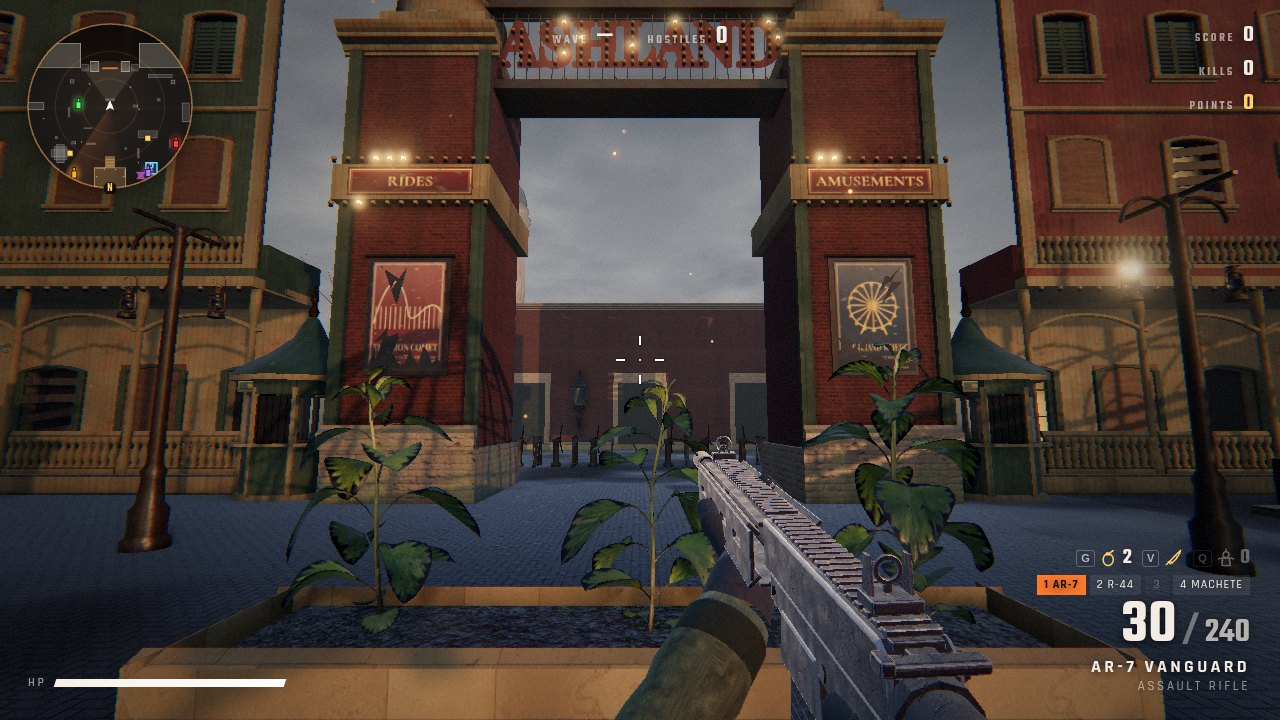
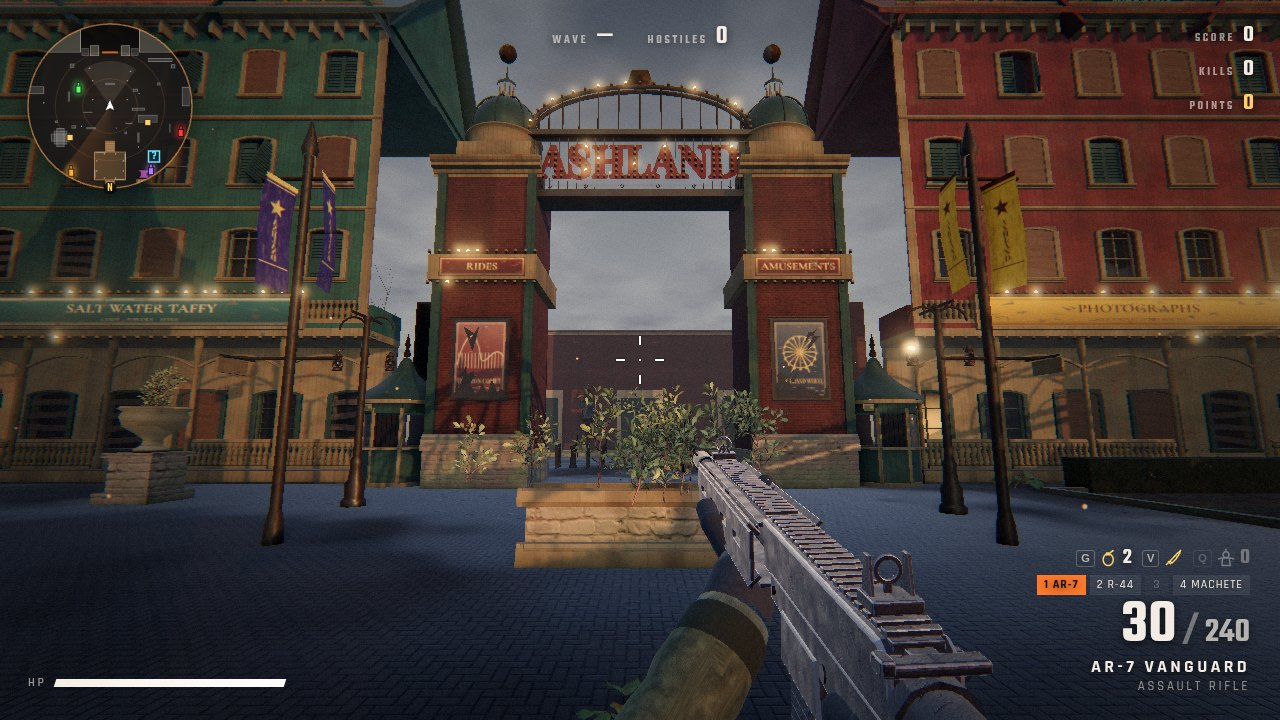
Pass 3: taller sky swings; README and preview show the theme-park restyle

diff --git a/src/world/skyline.js b/src/world/skyline.js
@@ -132,7 +132,7 @@ export function buildSkyline(scene, M) {
     const cr = lathe([[2.6, 0], [2.8, 0.4], [2.2, 1.6], [2.4, 2.0], [0.4, 3.6], [0.1, 6], [0, 6]], 16); cr.translate(cx, H, cz); crown.push(cr);
     tris += add(legs, coasterRed); tris += add(brace, bentMat); tris += add(ring, M.steel); tris += add(seats, coasterRed); tris += add(crown, M.gold); }
   // SKY SWINGS, west beyond the Gardens: a wave swinger, its painted canopy tilted and jammed, chains slack
-  { const cx = -54, cz = 26, mastH = 14, R = 8.2, mast = [], canopy = [], chains = [], seats = [], trim = [];
+  { const cx = -52, cz = 24, mastH = 21, R = 8.2, mast = [], canopy = [], chains = [], seats = [], trim = [];
     const m0 = lathe([[1.6, 0], [1.4, 0.6], [0.8, 1.2], [0.7, mastH], [0, mastH]], 16); m0.translate(cx, 0, cz); mast.push(m0);
     const dk = new THREE.CylinderGeometry(7.4, 7.6, 0.6, 32); dk.translate(cx, 0.3, cz); mast.push(dk);
     const tilt = new THREE.Matrix4().makeTranslation(cx, mastH, cz).multiply(new THREE.Matrix4().makeRotationX(0.16)).multiply(new THREE.Matrix4().makeRotationZ(-0.1));
@@ -141,9 +141,9 @@ export function buildSkyline(scene, M) {
     const fl = lathe([[0.25, 0], [0.32, 0.3], [0.06, 1.2], [0, 1.3]], 10); fl.translate(0, 4.5, 0); fl.applyMatrix4(tilt); trim.push(fl);
     const N = 24;
     for (let k = 0; k < N; k++) { if (k % 7 === 3) continue; const a = (k / N) * Math.PI * 2, top = new THREE.Vector3(Math.cos(a) * (R - 0.4), 0, Math.sin(a) * (R - 0.4)).applyMatrix4(tilt);
-      const L = top.y - 2.1, seat = V2(top.x + Math.cos(a) * 0.3, 2.1, top.z + Math.sin(a) * 0.3);
-      for (const off of [-0.22, 0.22]) { const g = new THREE.CylinderGeometry(0.02, 0.02, L, 4, 1, true); g.translate(0, L / 2, 0); g.translate(top.x + Math.sin(a) * off, 2.1, top.z - Math.cos(a) * off); chains.push(g); }
-      const sb = new THREE.BoxGeometry(0.55, 0.08, 0.5); sb.rotateY(-a); sb.translate(seat.x, 2.05, seat.z); seats.push(sb); const bk = new THREE.BoxGeometry(0.5, 0.55, 0.06); bk.translate(0, 0.27, -0.24); bk.rotateY(-a + Math.PI / 2); bk.translate(seat.x, 2.05, seat.z); seats.push(bk); }
+      const sy = top.y - 6.5, L = top.y - sy, seat = V2(top.x + Math.cos(a) * 0.9, sy, top.z + Math.sin(a) * 0.9);
+      for (const off of [-0.22, 0.22]) { const g = new THREE.CylinderGeometry(0.02, 0.02, L, 4, 1, true); g.translate(0, L / 2, 0); g.rotateZ(Math.cos(a) * 0.14); g.rotateX(-Math.sin(a) * 0.14); g.translate(top.x + Math.sin(a) * off + Math.cos(a) * 0.9, sy, top.z - Math.cos(a) * off + Math.sin(a) * 0.9); chains.push(g); }
+      const sb = new THREE.BoxGeometry(0.55, 0.08, 0.5); sb.rotateY(-a); sb.translate(seat.x, sy - 0.05, seat.z); seats.push(sb); const bk = new THREE.BoxGeometry(0.5, 0.55, 0.06); bk.translate(0, 0.27, -0.24); bk.rotateY(-a + Math.PI / 2); bk.translate(seat.x, sy - 0.05, seat.z); seats.push(bk); }
     { const sb = new THREE.BoxGeometry(0.55, 0.08, 0.5); sb.rotateZ(1.2); sb.translate(cx + 6.5, 0.3, cz + 5); seats.push(sb); }
     tris += add(mast, M.copper); tris += add(canopy, M.woodYellow); tris += add(trim, M.woodRed); tris += add(chains, M.steel); tris += add(seats, M.coasterRed); }
 
@@ -153,7 +153,7 @@ export function buildSkyline(scene, M) {
     const a = rnd() * Math.PI * 2, d = 58 + rnd() * 50, x = Math.cos(a) * d, z = Math.sin(a) * d;
     if (x > 50 && z < 60 && z > -75) continue; // keep the coaster clear
     if (Math.hypot(x + 64, z + 14) < 18) continue; // and the wheel
-    if (Math.hypot(x + 24, z + 66) < 9 || Math.hypot(x + 54, z - 26) < 13) continue; // and the drop tower, the swings
+    if (Math.hypot(x + 24, z + 66) < 9 || Math.hypot(x + 52, z - 24) < 13) continue; // and the drop tower, the swings
     const t = deadTree(mulberry(i * 37 + 5), { h: 10 + rnd() * 9, r: 0.35 + rnd() * 0.2, depth: d > 85 ? 2 : 3 }); t.translate(x, 0, z); trees.push(t);
   }
   tris += add(trees, M.bark);

diff --git a/README.md b/README.md
@@ -4,42 +4,40 @@ A horde shooter in the browser, set in Ashland: a grand amusement park that clos
 opened again. Built on three.js and WebGL shaders.
 
 ASHLAND is a **setting reskin of [Hordefall](https://github.com/madhatter2727/hordefall)**. The guns, movement,
-perks, shop, wall-buys, horde AI, enemies and throwables are Hordefall's, unchanged, except that mouse look is about 1.6x faster. The world is new.
+perks, shop, wall-buys, horde AI, enemies and throwables are Hordefall's, unchanged, except that mouse look is about 2x faster. The world is new.
 
 **Play:** https://ashland-lac.vercel.app
 
-![The Midway, with the coaster skeleton behind it](docs/midway.jpg)
+![Park street, with the Palace of Hours and the drop tower behind it](docs/street.jpg)
 
 ## The park
-- **The main gate** (south): a classic park entrance. Two painted timber pylons carry faded attraction bills
-  under glass, a RIDES / AMUSEMENTS band and copper cupolas with gold globes. An iron arch spells ASHLAND in
-  bulb letters, most of them dead. Octagonal ticket booths stand either side, with a row of rusted turnstiles
-  behind.
-- **The boardwalk hotels** either side of the gate: Hotel Meridian, The Carlisle, Hotel Vesper and The
-  Belvedere. They are painted clapboard in oxblood, forest green and cream, with deep porches, turned posts
-  and fretwork, plywooded windows, slate mansards, and painted name boards. Hotel Vesper has a dead neon
-  sign and VACANCY on an iron lattice.
-- **The Palace of Hours** (north): the park's great dark ride. The show halls are brick and wood, with
-  boarded arcades, poster cases, faded murals and stepped false fronts with painted attraction boards. Over
-  the gate, the clock tower (stopped at 11:47) carries a huge broken marquee whose east end has torn loose
-  and sags. There are ticket windows in the tower piers and ticket kiosks out front.
-- **The Midway** (east): game halls under an iron colonnade, a row of painted game booths (counters, prize
-  shelves, awnings with scalloped valances, crest boards and dead bulbs), and a gilded carousel standing
-  still under a torn velvet canopy. The steel skeleton of the great coaster rises over the wall. The coaster
-  is scenery only.
-- **The Grand Wheel** (west skyline): a 44 m riveted Ferris wheel, stopped. Some cars are missing, and one
-  lies in the weeds.
-- **The Gardens** (west): an iron-and-glass orangery, a dry reflecting pool with a dark bronze horse, overgrown
-  hedges and dead trees.
-- **The centre**: a marble bandstand terrace, iron queue rails, iron gas lamps, braziers, and puddles on dark
-  wet paving.
+- **The main gate and park street** (south): two painted timber pylons with RIDES and AMUSEMENTS bands carry
+  an iron arch that spells ASHLAND in bulb letters, most of them dead. There are ticket booths and rusted
+  turnstiles. Inside the gate, torn park banners hang from iron poles along a street of old boardwalk lodges.
+  The lodges are clapboard in chalky yellow, oxidized teal, carnival red and cream, with steep shingle
+  gables, deep porches, and shops on the ground floors: Souvenirs, Salt Water Taffy, Photographs and a Penny
+  Arcade. Hotel Vesper still has its dead neon sign.
+- **The Palace of Hours** (north): the park's great dark ride, a crumbling attraction castle. Lopsided
+  turrets with flared shingle cones (one roof stove in) rise over a crenellated curtain wall hung with torn
+  show banners. The clock keep is stopped at 11:47, a cogwheel arch frames the entrance, and a huge broken
+  marquee hangs over it.
+- **The hub** (centre): open paving around the old bandstand, a faded park guide map, abandoned popcorn
+  carts, and finger posts pointing to the rides and games.
+- **The Midway** (east): game halls under an iron colonnade, painted game booths with lit prize shelves,
+  scrolled crest boards and dead bulbs, and a gilded carousel standing still. The great coaster rises over
+  the wall.
+- **The Gardens and the flume** (west): an iron-and-glass orangery, and the dry splash pool of the old flume
+  ride with a boat stranded in it under the broken trough.
+- **On the skyline**, all scenery only: the Iron Comet coaster, the Grand Wheel (a stopped 44 m Ferris wheel),
+  the Plummet (a 58 m drop tower with its seats stuck high), and the Sky Swings (a wave swinger jammed at a
+  tilt).
 - **Locked areas** (buy with F): **The Clock Terrace** (a stone terrace before the Palace, up a stair behind a
   chained iron gate) and **The Grotto** (the old rock-cut boat-ride hall behind an iron-banded shutter).
 
 | | |
 |---|---|
-| ![Main gate](docs/gate.jpg) | ![Palace of Hours](docs/palace.jpg) |
-| ![Hotel Vesper](docs/hotel.jpg) | ![Game booths](docs/booths.jpg) |
+| ![Main gate and park street](docs/gate.jpg) | ![The Palace of Hours](docs/palace.jpg) |
+| ![The hub](docs/hub.jpg) | ![Boardwalk lodges](docs/hotel.jpg) |
 
 ## How it looks the way it does
 - All surfaces use Poly Haven CC0 PBR texture sets (albedo, normal, AO/roughness/metal) for herringbone paving,
